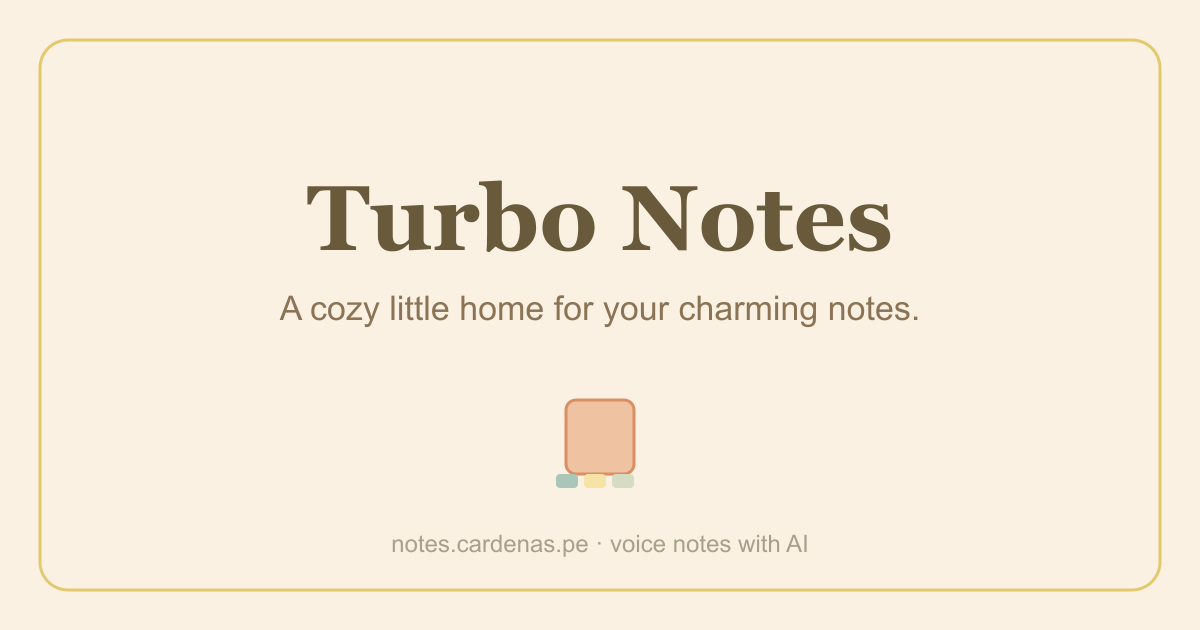
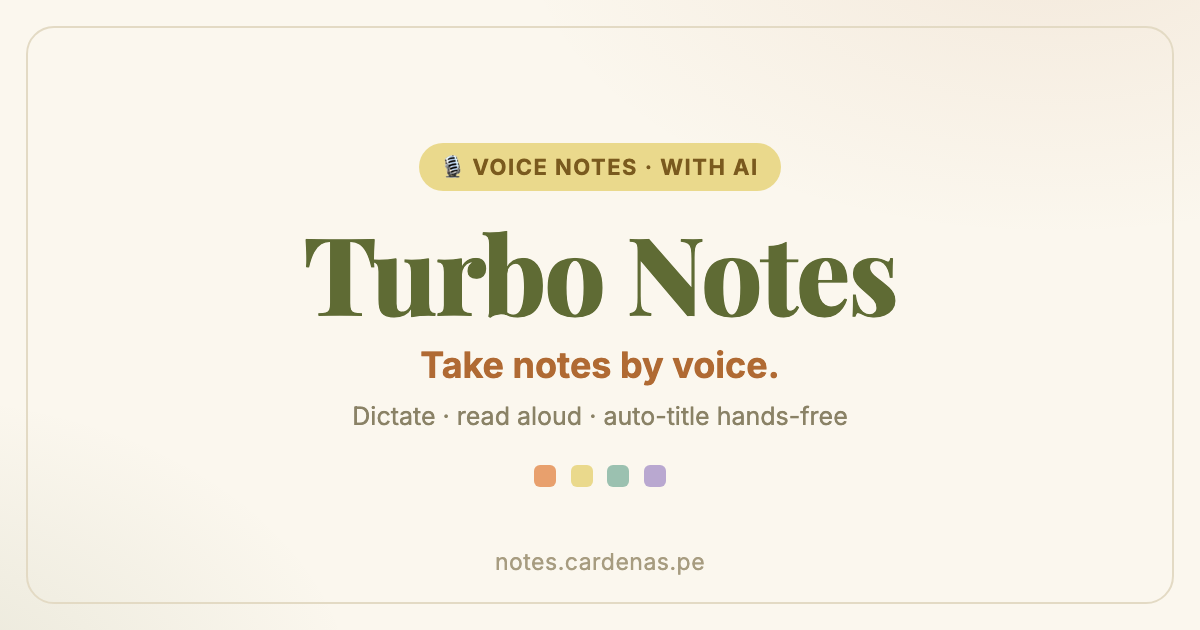
feat(seo): voice-forward metadata + OG, robots, sitemap, JSON-LD
- Voice-first title/description ("take notes by voice, with AI") + keywords,
  authors, canonical, robots directives, title template.
- Regenerated OG image: voice-forward ("Take notes by voice. Dictate · read
  aloud · auto-title hands-free"), bumped to ?v=3 to bust social caches.
- Added robots.ts + sitemap.ts (/, /login, /signup) and WebApplication JSON-LD
  structured data for rich search results. 108 tests green.

diff --git a/frontend/src/app/layout.tsx b/frontend/src/app/layout.tsx
@@ -13,33 +13,58 @@ const playfair = Playfair_Display({
 });
 
 const SITE_URL = process.env.NEXT_PUBLIC_SITE_URL || "https://notes.cardenas.pe";
-const SITE_DESC = "A cozy little home for your charming notes — with AI voice notes.";
+const SITE_TITLE = "Turbo Notes — take notes by voice, with AI";
+const SITE_DESC =
+  "Take notes by voice: dictate with AI (Whisper), read them aloud, and auto-title hands-free by saying “close my note.” A cozy, fast notes app.";
 
 export const metadata: Metadata = {
   metadataBase: new URL(SITE_URL),
-  title: "Turbo Notes",
+  title: { default: SITE_TITLE, template: "%s · Turbo Notes" },
   description: SITE_DESC,
+  applicationName: "Turbo Notes",
+  authors: [{ name: "Carlos Cárdenas", url: "https://github.com/unimauro" }],
+  creator: "Carlos Cárdenas",
+  category: "productivity",
+  keywords: [
+    "voice notes",
+    "notes by voice",
+    "AI notes app",
+    "voice dictation",
+    "speech to text",
+    "Whisper",
+    "read notes aloud",
+    "text to speech",
+    "hands-free notes",
+    "note taking app",
+  ],
+  alternates: { canonical: "/" },
+  robots: {
+    index: true,
+    follow: true,
+    googleBot: { index: true, follow: true, "max-image-preview": "large" },
+  },
   openGraph: {
-    title: "Turbo Notes",
+    title: SITE_TITLE,
     description: SITE_DESC,
     url: SITE_URL,
     siteName: "Turbo Notes",
+    locale: "en_US",
     type: "website",
     images: [
       {
-        url: "/og.png?v=2",
+        url: "/og.png?v=3",
         width: 1200,
         height: 630,
         type: "image/png",
-        alt: "Turbo Notes — a cozy little home for your charming notes",
+        alt: "Turbo Notes — take notes by voice, with AI dictation, read-aloud and auto-title",
       },
     ],
   },
   twitter: {
     card: "summary_large_image",
-    title: "Turbo Notes",
+    title: SITE_TITLE,
     description: SITE_DESC,
-    images: ["/og.png?v=2"],
+    images: ["/og.png?v=3"],
   },
 };
 
@@ -63,6 +88,35 @@ export default function RootLayout({
     >
       <head>
         <script dangerouslySetInnerHTML={{ __html: themeInitScript }} />
+        {/* Structured data — helps search engines render a rich result. */}
+        <script
+          type="application/ld+json"
+          dangerouslySetInnerHTML={{
+            __html: JSON.stringify({
+              "@context": "https://schema.org",
+              "@type": "WebApplication",
+              name: "Turbo Notes",
+              url: SITE_URL,
+              applicationCategory: "ProductivityApplication",
+              operatingSystem: "Web",
+              description: SITE_DESC,
+              offers: { "@type": "Offer", price: "0", priceCurrency: "USD" },
+              featureList: [
+                "Voice dictation (AI)",
+                "Read notes aloud (text-to-speech)",
+                "Auto-title and summarize with AI",
+                "Hands-free “close my note” command",
+                "Color-coded categories",
+                "Autosaving editor",
+              ],
+              author: {
+                "@type": "Person",
+                name: "Carlos Cárdenas",
+                url: "https://github.com/unimauro",
+              },
+            }),
+          }}
+        />
         <GoogleAnalytics />
       </head>
       <body className="flex min-h-full flex-col bg-cream font-sans text-ink-soft dark:bg-bark dark:text-linen">

diff --git a/frontend/src/app/robots.ts b/frontend/src/app/robots.ts
@@ -1,0 +1,11 @@
+import type { MetadataRoute } from "next";
+
+const SITE_URL = process.env.NEXT_PUBLIC_SITE_URL || "https://notes.cardenas.pe";
+
+export default function robots(): MetadataRoute.Robots {
+  return {
+    rules: { userAgent: "*", allow: "/" },
+    sitemap: `${SITE_URL}/sitemap.xml`,
+    host: SITE_URL,
+  };
+}

diff --git a/frontend/src/app/sitemap.ts b/frontend/src/app/sitemap.ts
@@ -1,0 +1,11 @@
+import type { MetadataRoute } from "next";
+
+const SITE_URL = process.env.NEXT_PUBLIC_SITE_URL || "https://notes.cardenas.pe";
+
+export default function sitemap(): MetadataRoute.Sitemap {
+  return [
+    { url: SITE_URL, changeFrequency: "monthly", priority: 1 },
+    { url: `${SITE_URL}/login`, changeFrequency: "yearly", priority: 0.5 },
+    { url: `${SITE_URL}/signup`, changeFrequency: "yearly", priority: 0.5 },
+  ];
+}